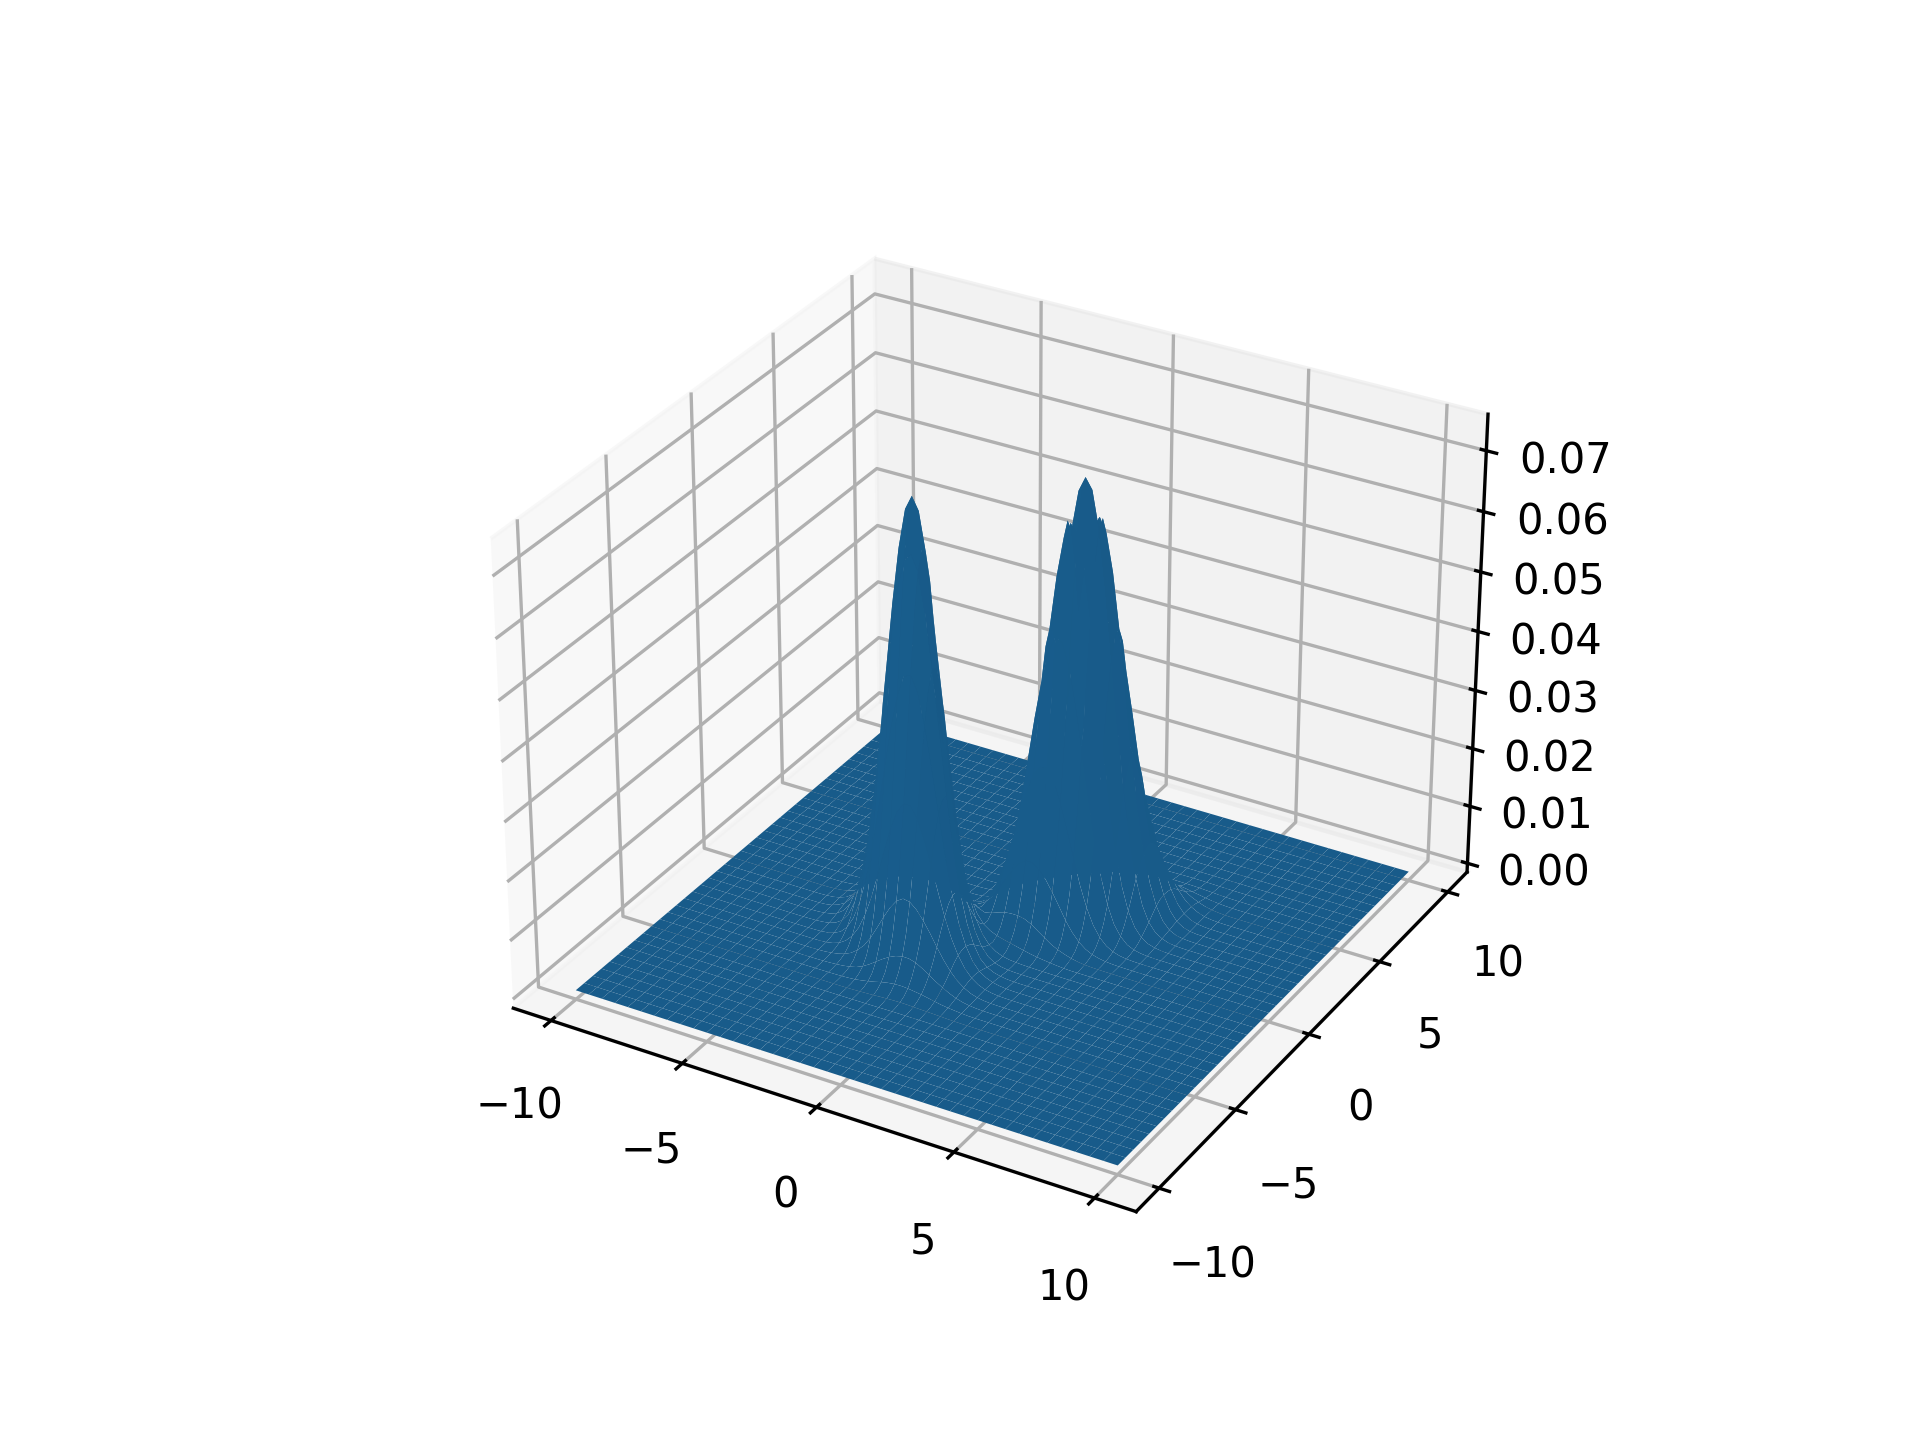
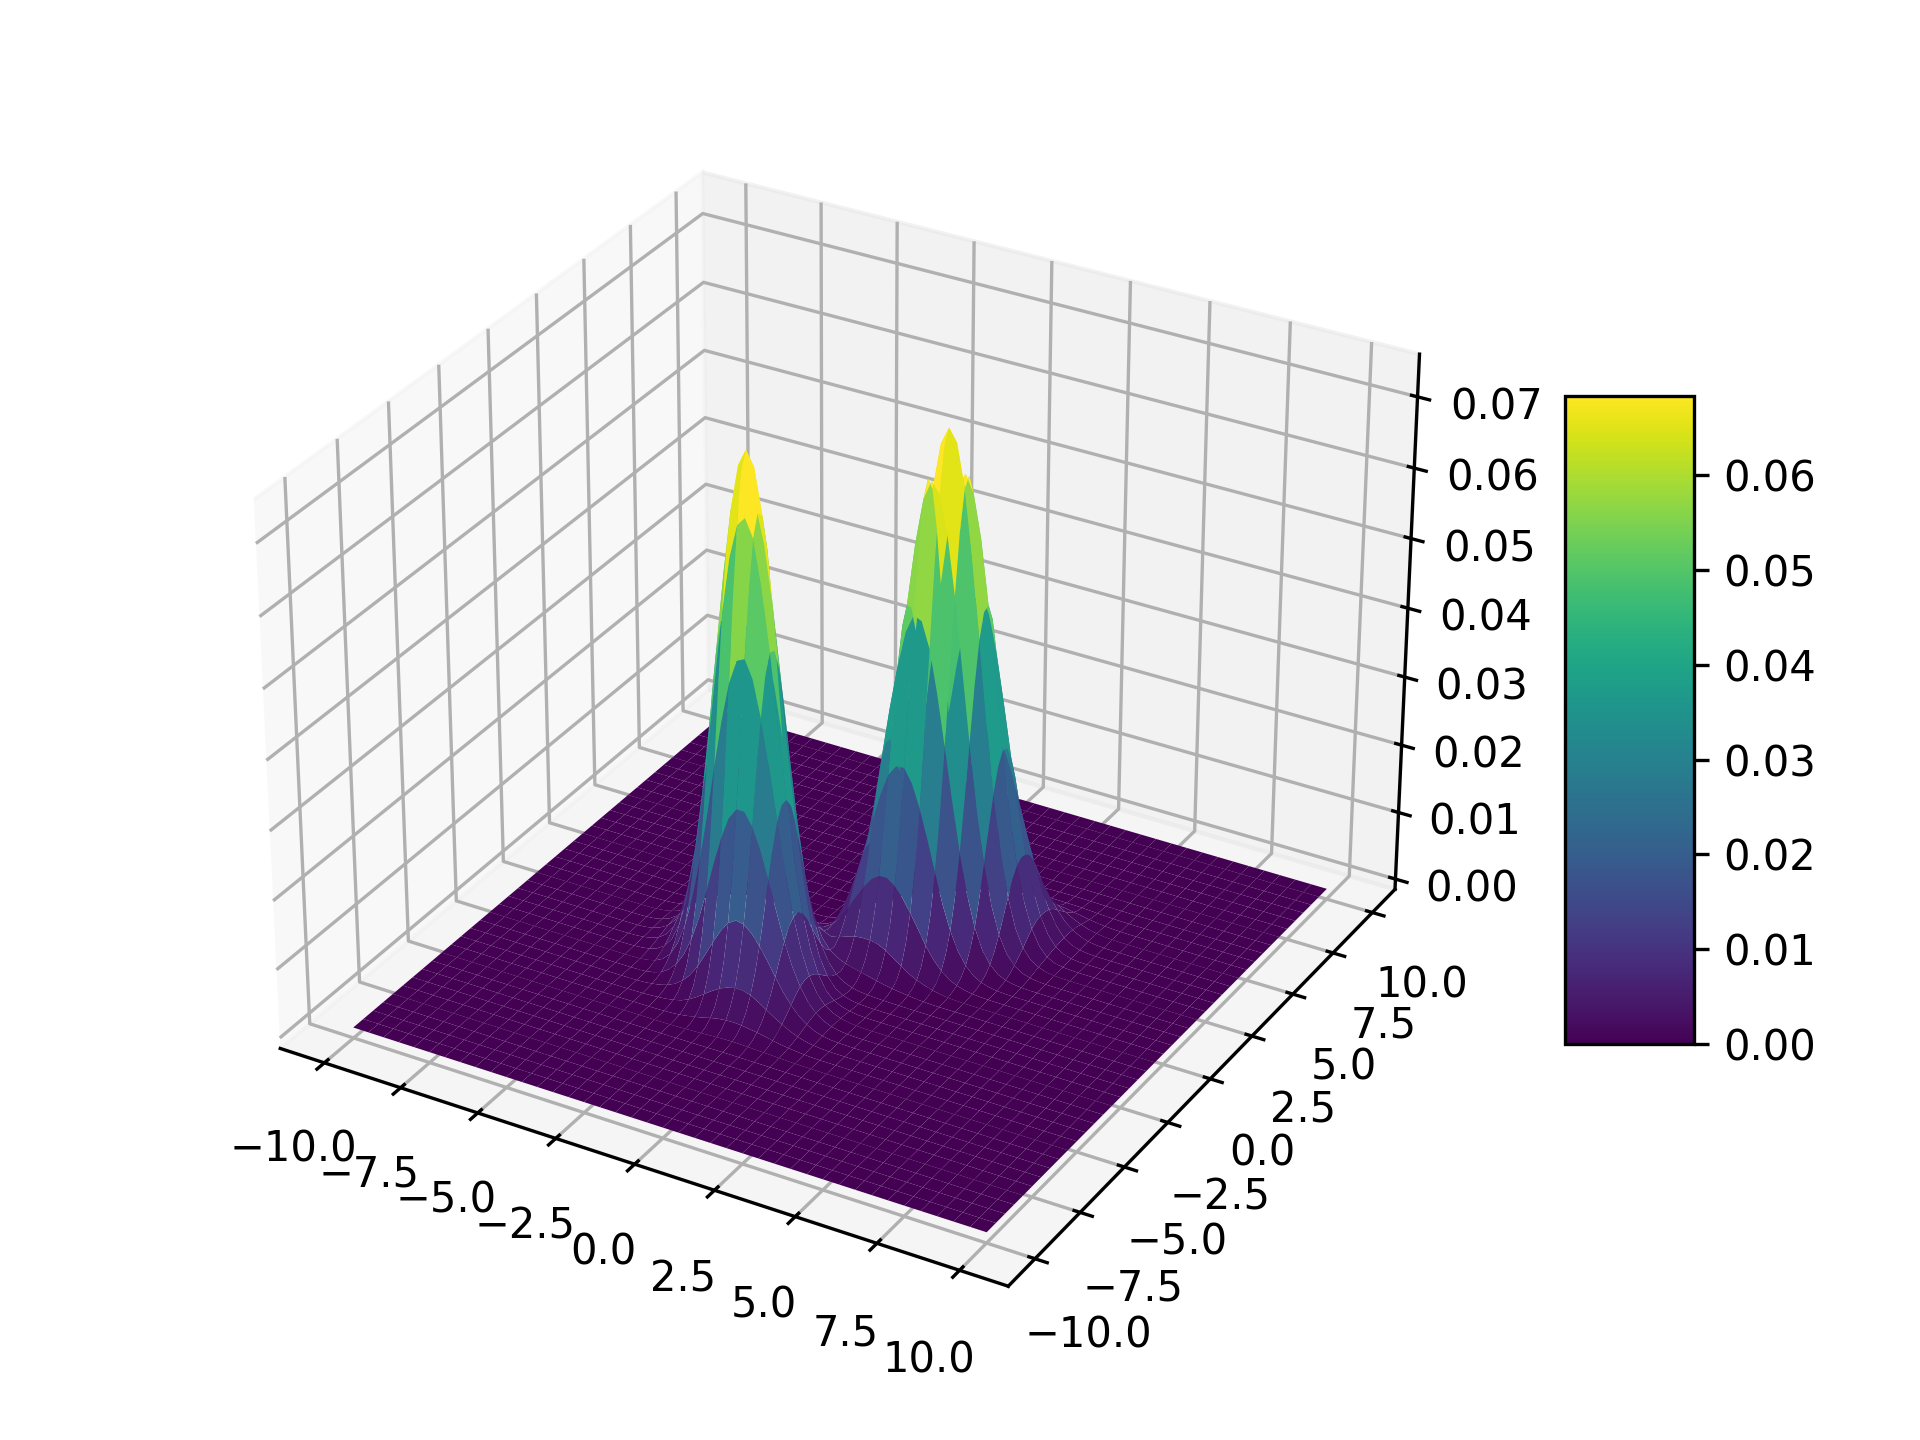
Update 2.py plot

diff --git a/A3/code/2.py b/A3/code/2.py
@@ -41,7 +41,9 @@ for x in range(X.shape[0]):
     for y in range(X.shape[1]):
         Z[x, y] = epanechnikov_kde.evaluate(np.array([X[x, y], Y[x, y]]))
 fig, ax = plt.subplots(subplot_kw={"projection": "3d"})
-ax.plot_surface(X, Y, Z, vmin=Z.min() * 2)
+surface = ax.plot_surface(X, Y, Z, cmap="viridis", edgecolor="none", vmin=Z.min() * 2)
+fig.colorbar(surface, ax=ax, shrink=0.5, aspect=5)
+plt.subplots_adjust(left=0.05, right=0.95, top=0.95, bottom=0.05)
 
 # TODO: Save the plot
 fig.savefig("transaction_distribution.png", dpi=300)
